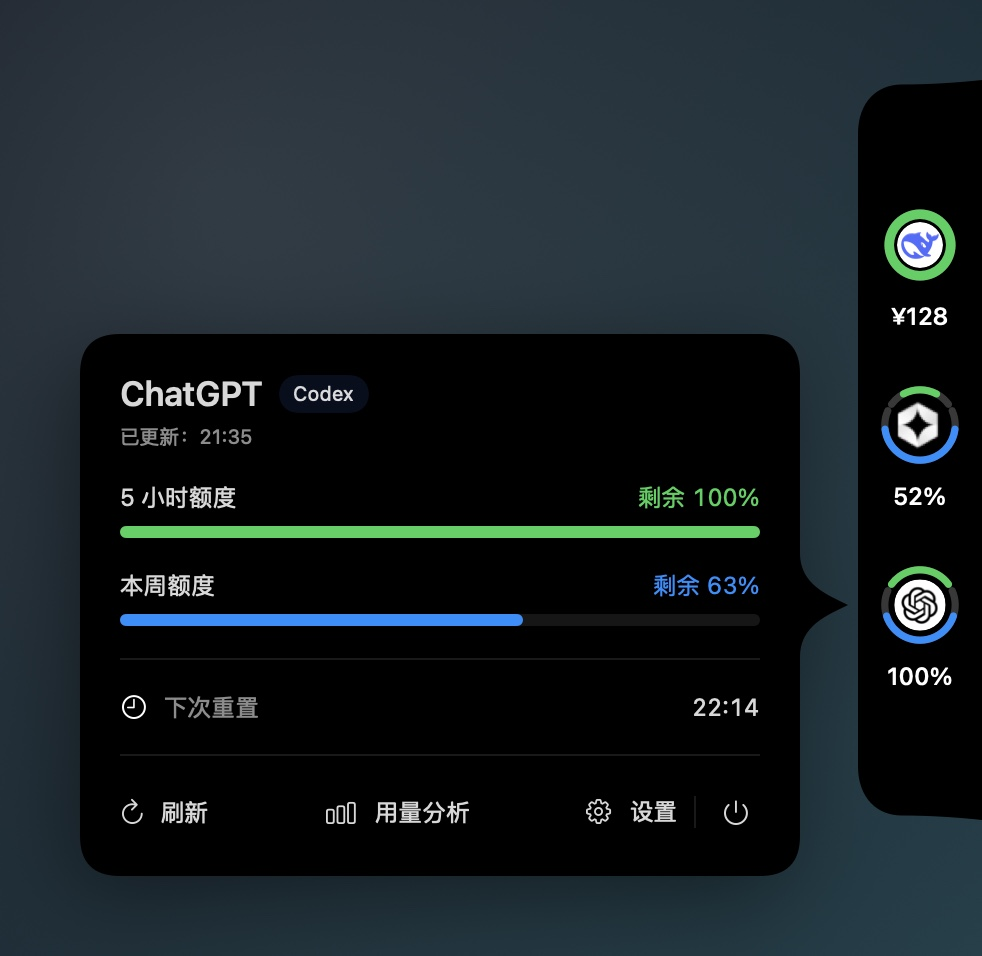
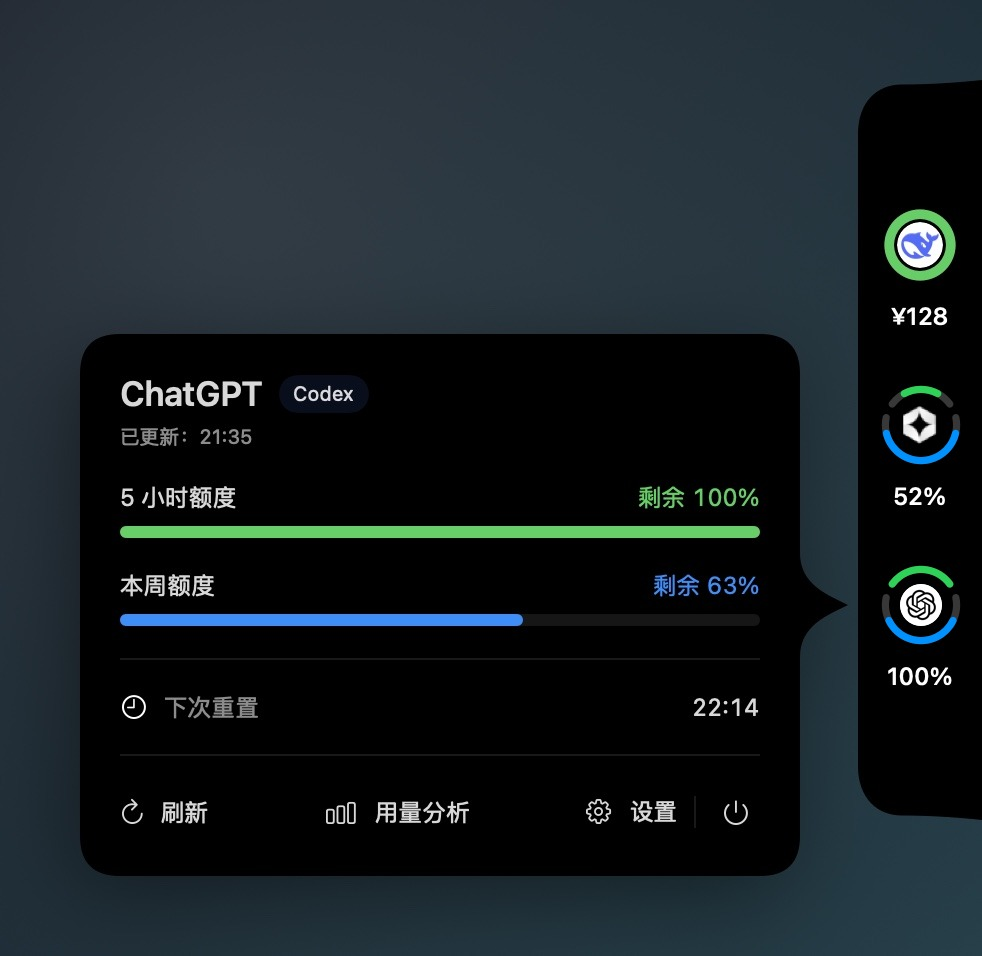
Release 2.0.1 with refined dual quota arcs

Changed region(s): [[0.8859, 0.5764, 0.9776, 0.6977], [0.8859, 0.3944, 0.9776, 0.4854]]

diff --git a/Tests/DeepSeekIslandTests/MenuBarLogoTests.swift b/Tests/DeepSeekIslandTests/MenuBarLogoTests.swift
@@ -23,6 +23,59 @@ final class MenuBarLogoTests: XCTestCase {
         XCTAssertNotEqual(try XCTUnwrap(full.tiffRepresentation), try XCTUnwrap(low.tiffRepresentation))
     }
 
+    func testSplitQuotaSideDockIconUsesShorterFiveHourArcAtSameRadius() throws {
+        let image = MenuBarRenderer.splitQuotaImage(platform: .chatGPT,
+            fiveHour: .quota(remaining: 100), week: .quota(remaining: 100),
+            dark: true, thickness: .standard, preserveLogoColors: true)
+        let rep = try XCTUnwrap(NSBitmapImageRep(data: try XCTUnwrap(image.tiffRepresentation)))
+        let scale = CGFloat(rep.pixelsWide) / image.size.width
+        let center = NSPoint(x: CGFloat(rep.pixelsWide) / 2, y: CGFloat(rep.pixelsHigh) / 2)
+        var fiveHourAngles: [CGFloat] = []
+        var weekAngles: [CGFloat] = []
+        var fiveHourRadii: [CGFloat] = []
+        var weekRadii: [CGFloat] = []
+        for y in 0..<rep.pixelsHigh {
+            for x in 0..<rep.pixelsWide {
+                guard let color = rep.colorAt(x: x, y: y)?.usingColorSpace(.deviceRGB),
+                      color.alphaComponent > 0.6 else { continue }
+                let dx = CGFloat(x) + 0.5 - center.x
+                let dy = CGFloat(y) + 0.5 - center.y
+                let angle = (atan2(-dy, dx) * 180 / .pi).truncatingRemainder(dividingBy: 360)
+                let radius = hypot(dx, dy) / scale
+                if color.greenComponent > 0.45,
+                   color.greenComponent > color.redComponent * 1.4,
+                   color.greenComponent > color.blueComponent * 1.15 {
+                    fiveHourAngles.append(angle < 0 ? angle + 360 : angle)
+                    fiveHourRadii.append(radius)
+                } else if color.blueComponent > 0.55,
+                          color.blueComponent > color.redComponent * 1.4,
+                          color.blueComponent > color.greenComponent * 1.15 {
+                    weekAngles.append(angle < 0 ? angle + 360 : angle)
+                    weekRadii.append(radius)
+                }
+            }
+        }
+        func span(_ angles: [CGFloat]) throws -> CGFloat {
+            let sorted = angles.sorted()
+            var gaps: [CGFloat] = []
+            for index in sorted.indices {
+                var gap = sorted[(index + 1) % sorted.count] - sorted[index]
+                if gap < 0 { gap += 360 }
+                gaps.append(gap)
+            }
+            let largestGap = try XCTUnwrap(gaps.max())
+            return 360 - largestGap
+        }
+        let fiveHourRadius = try XCTUnwrap(fiveHourRadii.sorted().dropFirst(fiveHourRadii.count / 2).first)
+        let weekRadius = try XCTUnwrap(weekRadii.sorted().dropFirst(weekRadii.count / 2).first)
+        let fiveHourSpan = try span(fiveHourAngles)
+        let weekSpan = try span(weekAngles)
+        XCTAssertLessThan(abs(fiveHourRadius - weekRadius), 1.5, "两段弧应共用同一半径")
+        XCTAssertGreaterThan(weekSpan - fiveHourSpan, 60, "周额度弧应明显长于 5 小时弧")
+        XCTAssertEqual(fiveHourSpan, 120, accuracy: 15, "5 小时弧含圆头应约 120°")
+        XCTAssertEqual(weekSpan, 216, accuracy: 15, "周额度弧含圆头应约 216°")
+    }
+
     func testOfficialLogoResourcesAreBundled() throws {
         for (name, ext) in [("DeepSeekLogo", "svg"), ("ChatGPTLogo", "png"), ("CodingPlanLogo", "png")] {
             let url = try XCTUnwrap(Bundle.module.url(forResource: name, withExtension: ext))

diff --git a/Sources/DeepSeekIsland/MenuBarStatus.swift b/Sources/DeepSeekIsland/MenuBarStatus.swift
@@ -192,8 +192,10 @@ enum MenuBarRenderer {
         return image
     }
 
-    /// Side-dock icon: 5h owns the top third, the weekly window the lower
-    /// two thirds. The percentage below the icon stays the 5h reading.
+    /// Side-dock icon: the 5-hour window is the shorter top arc, the weekly
+    /// window the longer bottom arc. Both share one radius; the wider side
+    /// gaps make the top arc read as the smaller circle without wrapping it.
+    /// The percentage below the icon stays the 5h reading.
     static func splitQuotaImage(platform: UsagePlatform, fiveHour: UsageReading, week: UsageReading,
                                 dark: Bool, thickness: MenuBarRingThickness,
                                 preserveLogoColors: Bool) -> NSImage {
@@ -203,7 +205,7 @@ enum MenuBarRenderer {
             appearance.performAsCurrentDrawingAppearance {
                 let line = 3.6 * thickness.lineWidth / 2.4
                 let center = NSPoint(x: rect.midX, y: rect.midY)
-                let radius = min(rect.width, rect.height) / 2 - line / 2 - 0.6
+                let radius = 19.6 - line / 2
                 let track = NSColor.secondaryLabelColor.withAlphaComponent(0.22)
                 func stroke(_ start: CGFloat, _ end: CGFloat, _ color: NSColor) {
                     let path = NSBezierPath()
@@ -222,16 +224,16 @@ enum MenuBarRenderer {
                     path.stroke()
                 }
                 stroke(36, 144, track)
-                stroke(156, 384, track)
+                stroke(168, 372, track)
                 if let remaining = quotaPercent(fiveHour) {
                     let span = 108 * remaining / 100
                     stroke(90 - span / 2, 90 + span / 2, fiveHourColor(fiveHour))
                 }
                 if let remaining = quotaPercent(week) {
-                    let span = 228 * remaining / 100
+                    let span = 204 * remaining / 100
                     stroke(270 - span / 2, 270 + span / 2, weekColor(week))
                 }
-                let badge = NSRect(x: center.x - 12.8, y: center.y - 12.8, width: 25.6, height: 25.6)
+                let badge = NSRect(x: center.x - 10.5, y: center.y - 10.5, width: 21, height: 21)
                 drawLogo(platform, in: badge, color: .labelColor, original: preserveLogoColors)
             }
             return true

diff --git a/CHANGELOG.md b/CHANGELOG.md
@@ -1,9 +1,8 @@
 # 版本说明
 
-## 2.0.0（build 79，2026-10-28）
+## 2.0.1（build 80，2026-10-29）
 
-首个公开稳定版，整合此前 1.19.x 的功能：
-
-- 顶部灵动岛、悬浮状态栏、侧边停靠三种显示形式；侧栏跟随显示账号，支持上下自由拖动（可超出屏幕，至少保留一个图标）、双额度环（5 小时占上段 1/3、本周占下段 2/3）与可调圆弧。
+- 重做侧边停靠的 ChatGPT／智谱双额度图标：5 小时与本周改为同半径（17.8pt）的上下两段弧，5 小时上弧 108°、本周下弧 204°，两侧各留 24° 缺口；5 小时环更短、周额度环更长，视觉上有大小区别但不再整圈包住。中心平台徽章调整为 21pt，颜色区分和图标下方的 5 小时百分比保持不变。
+- 顶部灵动岛、悬浮状态栏、侧边停靠三种显示形式；侧栏跟随显示账号，支持上下自由拖动（可超出屏幕，至少保留一个图标）与可调圆弧。
 - 支持 DeepSeek、智谱 CodingPlan、ChatGPT/Codex；多平台、多账号的额度／余额、重置时间、用量分析与历史记录。
 - 本机提醒、Bark 公开重置动态推送、Sparkle 应用内更新；源码以 MIT License 公开。

diff --git a/README.md b/README.md
@@ -2,7 +2,7 @@
 
 macOS 14+ 菜单栏／侧边停靠的 AI 用量与额度工具，支持 DeepSeek、智谱 CodingPlan、ChatGPT/Codex。
 
-当前版本：2.0.0（build 79）。
+当前版本：2.0.1（build 80）。
 
 [下载最新版](https://github.com/gReyWangP/AIUsageIsland-releases/releases/latest) · [更新说明](CHANGELOG.md) · [隐私](PRIVACY.md) · [MIT License](LICENSE) · [安全策略](SECURITY.md)
 
@@ -55,6 +55,6 @@ swift test
 
 ## 版本记录
 
-### 2.0.0（2026-10-28）
+### 2.0.1（2026-10-29）
 
-首个公开稳定版，整合此前 1.19.x 的功能：三种显示形式、多平台多账号的额度／余额与用量分析、侧边停靠双额度环与自由拖动、本机提醒／Bark 与 Sparkle 更新。详细变更见 [CHANGELOG.md](CHANGELOG.md)。
+在 2.0.0 公开稳定版基础上的侧栏图标修正：5 小时与本周改为同半径的上下两段弧，5 小时上弧更短、本周下弧更长，两侧留缺口，保留 5 小时百分比与颜色区分。其余功能与 2.0.0 一致，详细变更见 [CHANGELOG.md](CHANGELOG.md)。
